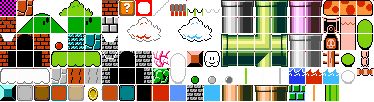
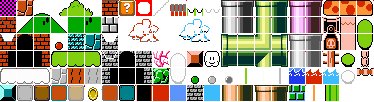
Add clouds.

Changed region(s): [[0.4706, 0.1471, 0.5882, 0.4118], [0.3235, 0.1765, 0.4412, 0.4118]]

diff --git a/README.md b/README.md
@@ -32,3 +32,8 @@ Castle bricks
 Modified from RPG Tile Set 'Military Base' NES by Chasersgaming (https://chasersgaming.itch.io/)
 https://opengameart.org/content/rpg-tile-set-military-base-nes
 License: CC0
+
+Clouds
+Modified from Clouds and Gust by Urie W.
+https://opengameart.org/content/clouds-and-gust
+License: CC-BY-SA 3.0
